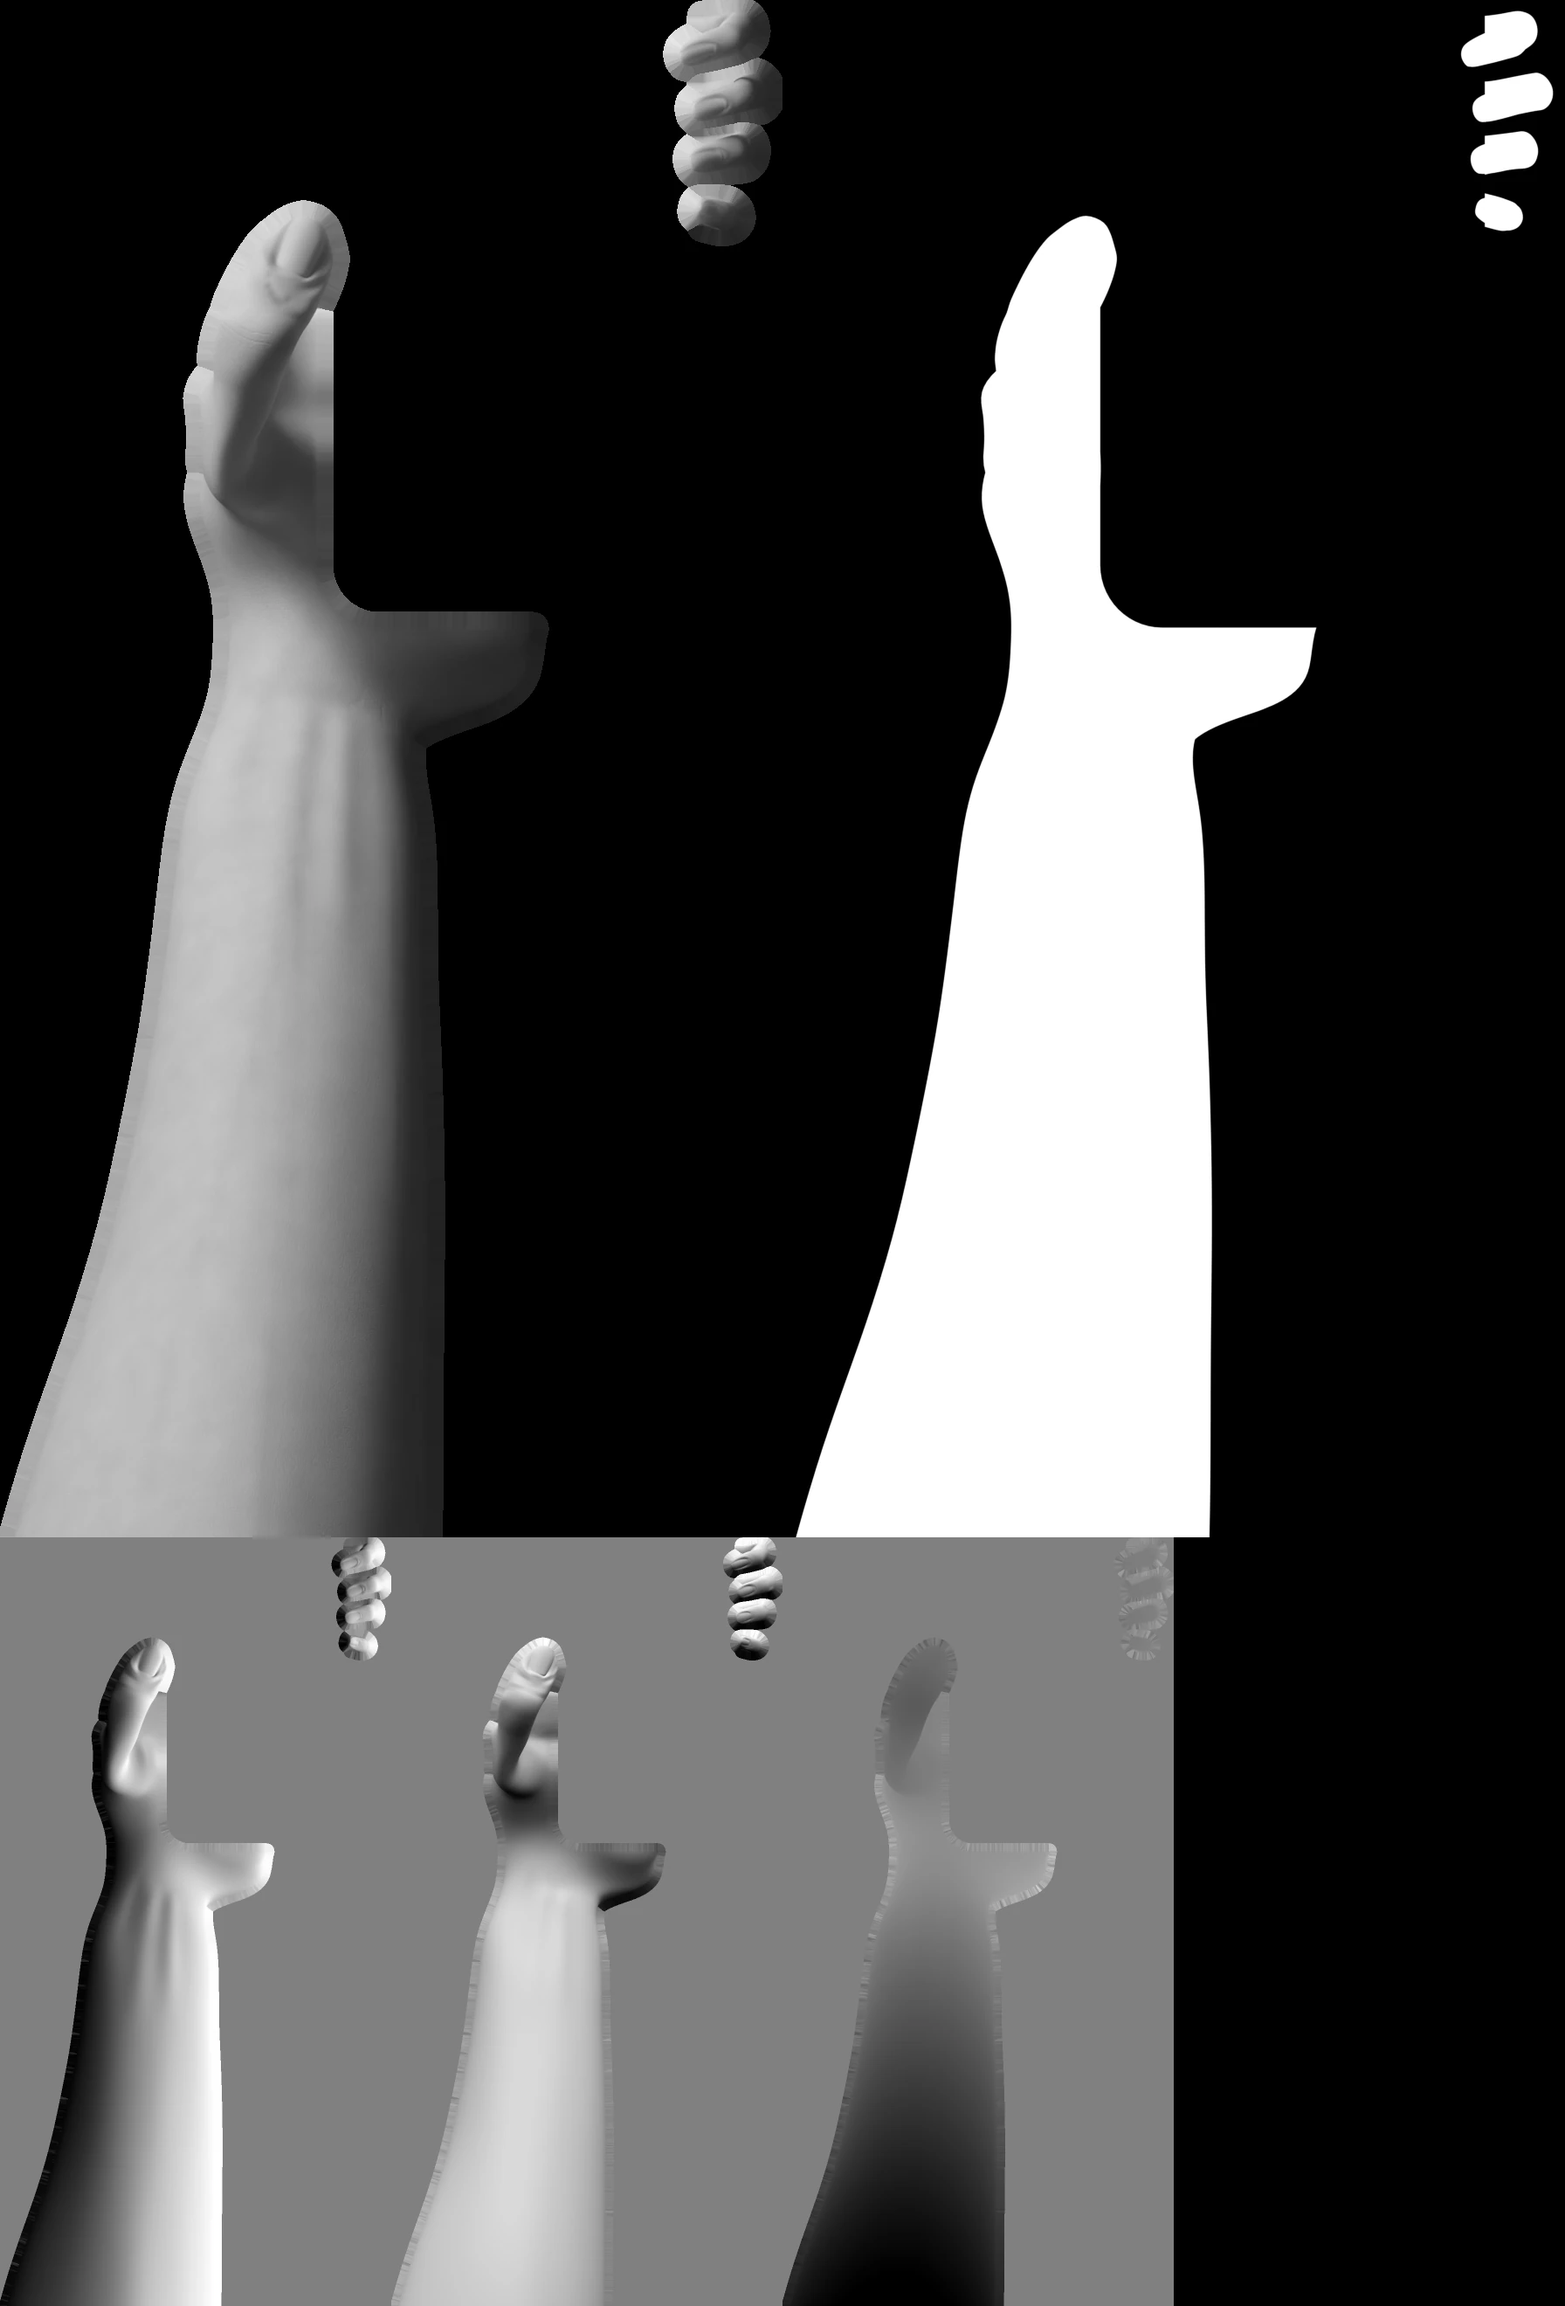
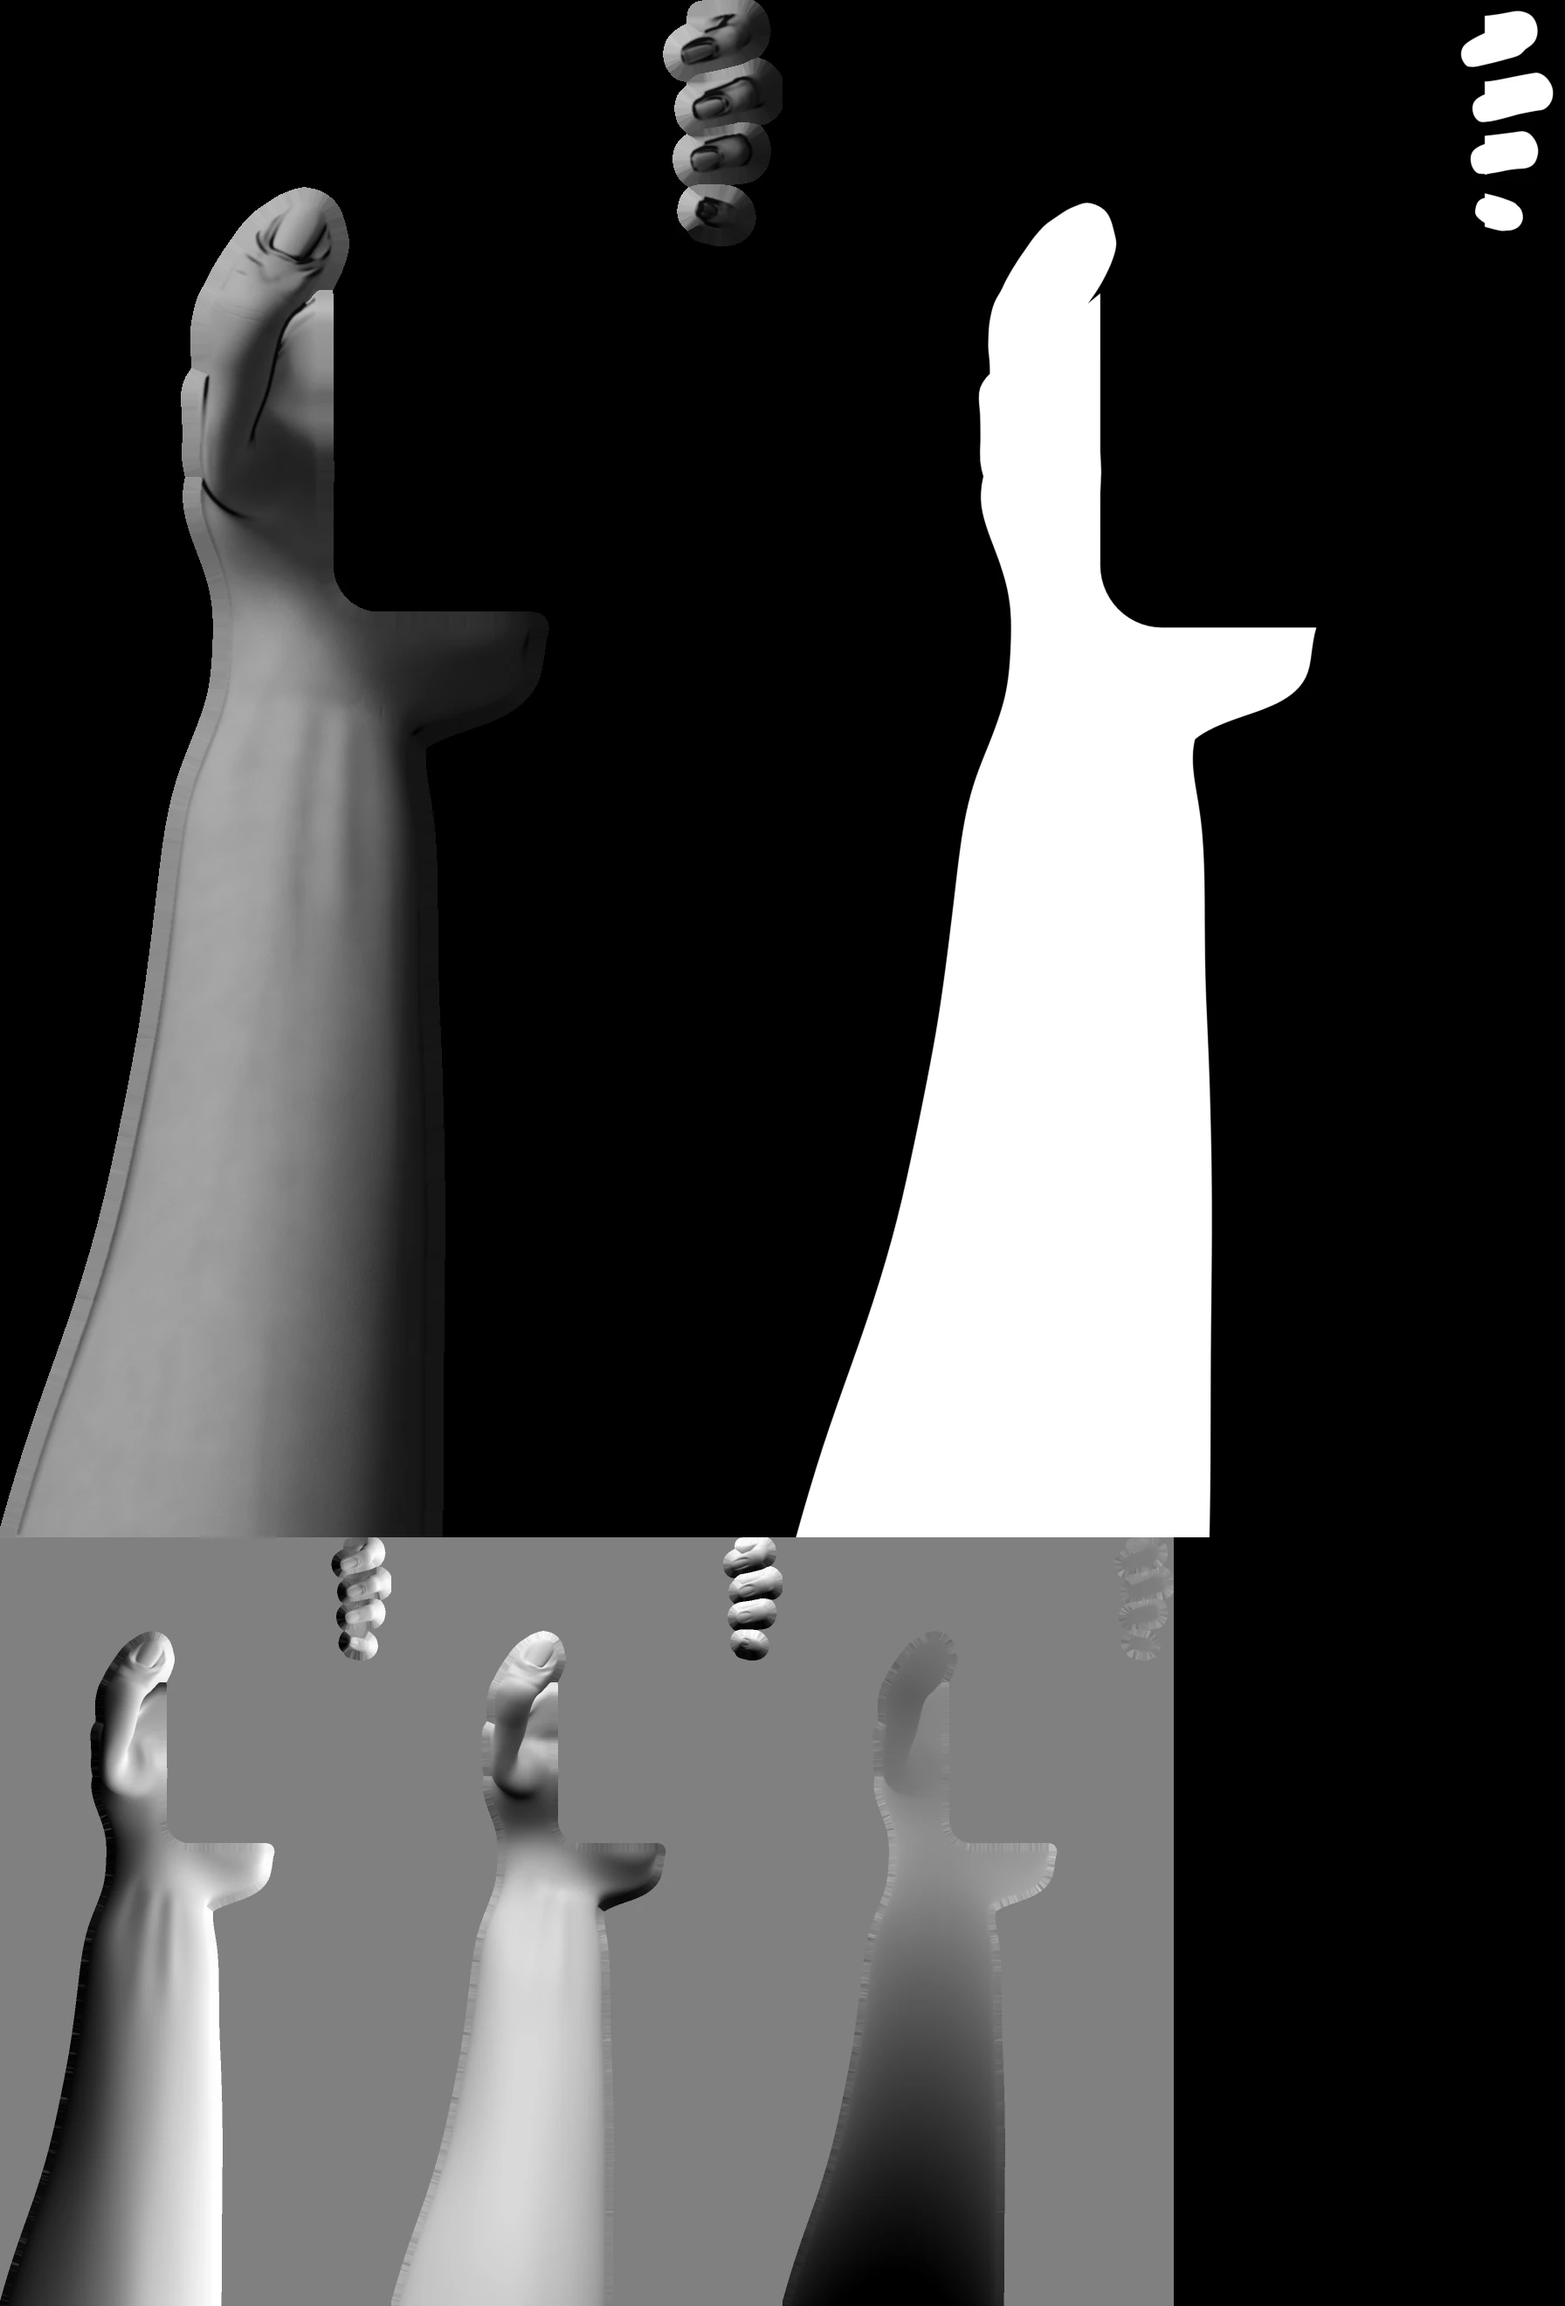
Haltehand: Daumen neu gestellt (HAND_V 5): Grundgelenk nach links, Knick am Endgelenk in der Bildebene, rechte Daumenkontur vor dem Ballen sichtbar; beide Hand-Atlanten mit Tintenlinien an Nagelrändern, Beugefalte und Fugen, Helligkeit ohne ausgefressene Flächen

diff --git a/src/components/landing/scenes/ende/hand.js b/src/components/landing/scenes/ende/hand.js
@@ -14,7 +14,7 @@ import { qa } from '../../core/loop';
 import { istHoch } from './kamera';
 
 // Bei jedem neuen Render erhöhen: json und webp gehören zusammen und werden gemeinsam gecacht.
-const HAND_V = 4;
+const HAND_V = 5;
 const STEP = 1.25; // Zellgröße in Bühnen-px (fein: Halbton liest als Haut, nicht als Raster)
 const GAM = 0.85;
 const CON = 1.05;

diff --git a/design/HAND.md b/design/HAND.md
@@ -4,6 +4,10 @@ Stand 2026-10-07. Die beiden Kapsel-Hände der Engine (Handy-Hand `holdBack`/`ho
 
 Referenz-Umsetzung (läuft, Screenshots bei 1440 × 900 und 390 × 844 geprüft): `/Users/abu/Company/archiv/hand/scripts/preview.html` (Aufruf: Ordner `archiv/hand` mit `python3 -m http.server`, dann `/scripts/preview.html` mit `?b=../final/`; Parameter `ps`, `g`, `con`, `rim`, `view`, `ascii=1`, `mx/my/px/py`), eingeklebt im Abschnitt 6.
 
+### Stand 2026-10-08, dritte Runde (HAND_V 5): Daumen
+
+Gate-3-Funde 2, 7, 10: der Daumen las sich als Säule (gerade Kanten, kein Knick, kein Nagel, harte Kante zum Ballen). Ursache: Grund- und Endglied lagen in der Projektion beide bei 68° (die Beugung ging in die Tiefe, Endgelenk 31 mm vor dem Glas), und die Daumenachse saß bei x ≈ 612, so dass der Handy-Rand die rechte Daumenkontur gerade abschnitt. Neu gelöst mit `scripts/opt_thumb7.py` (`q8/main2_ziel.json` → `q8/main2.json`): Daumen-Grundgelenk nach links auf x 565 / y 594, Grundglied 76° in der Bildebene, Endglied 60° (Knick 16° sichtbar), Endgelenk 25 mm vor dem Glas, Kuppe 15 px über dem Rand. Knochen (FK, Grad): `finger1-1` −32,4 / −57,4 / −2,7 (vorher −59,7 / −2,8), `finger1-2` 48,4 / 0 / −34,7 (vorher 40,9 / −44,3), `finger1-3` 56,4 (vorher 61,8). Die rechte Daumenkontur ist jetzt von der Kuppe bis zum Grundgelenk sichtbar, dahinter der dunklere Ballen. Beide Atlanten mit Tintenlinien gepackt (`pack8 --ink 0.9`: Tiefensprung und Normalenknick, bisher 0): Nagelränder an Daumen und Kuppen, Beugefalte, Daumenkontur vor dem Ballen. Helligkeit `--gain 0.72 --lgamma 1.15` (vorher 0,8 / 1,0): keine ausgefressenen weißen Flächen mehr auf dem Daumenrücken und keine weißen Glanzpunkte auf den Kuppen. Lauf `v3/final10.sh` → `out/R6/pk`. Messung `measure7`: Daumen Überstand 14,7 px, Spitze y 384; Kuppen unverändert. Bleibt: unterhalb des Grundgelenks ist Ballen plus Daumenbasis weiterhin eine Fläche bis zum Handy-Rand (im Halbton ohne Binnenzeichnung), und die Innenseite der Daumenkuppe auf dem Glas liest als helle Fläche.
+
 ### Stand 2026-10-08, zweite Runde (HAND_V 4)
 
 Haut matter (`skin7.make_skin3` mit `rough` 0,66 / `spec` 0,24 aus den Licht-Specs `lights/L2r.json`, `lights/LP8r.json`): der durchgehende Glanzstreifen auf dem Daumen zerfällt in Formschatten. Daumen-Endglied 15° mehr gebeugt (`q8/main1.json`, Nagel und Beugefalte im Lum-Pass sichtbar, Überstand 15 px). Fingerkuppen stärker gestaffelt (`q8/fp13.json` → `fp13_s.json`: Ziele Zeige 236, Mittel 284, Ring 338, klein 398; Kuppenhöhen 40/36/32/27; kleiner Finger schlanker 0,74). Zeigehand mit gestaffelter Krümmung (`q8/td4.json`: Mittelfinger 70/86/40, Ring 88/100/50, klein 100/100/58), Daumen liegt auf dem Mittelfinger. Lauf `v3/final9.sh` → `out/R5/pk`. Messung `measure7`: Kuppen y 236–275, 282–319, 327–359, 376–402 (Höhen 39/37/32/26).
@@ -16,9 +20,9 @@ Kuppen gestaffelt statt in einer senkrechten Reihe: Finger-Hand neu gelöst und 
 
 | Datei | Inhalt | Größe |
 |---|---|---|
-| `public/hand/hold.webp` + `hold.json` | Hand, die das Handy hält (Atlas 2072 × 2754, Maßstab 1,5, Kachel ab Bühnen-x 424, y 176) | 88 kB |
-| `public/hand/point.webp` + `point.json` | Zeigehand als Sprite (Atlas 3328 × 894, Maßstab 1,0) | 66 kB |
-| Summe | | 154 kB (Grenze 600 kB) |
+| `public/hand/hold.webp` + `hold.json` | Hand, die das Handy hält (Atlas 1792 × 2640, Maßstab 1,5, Kachel ab Bühnen-x 411, y 227) | 56 kB |
+| `public/hand/point.webp` + `point.json` | Zeigehand als Sprite (Atlas 3800 × 648, Maßstab 1,0) | 49 kB |
+| Summe | | 105 kB (Grenze 600 kB) |
 
 Die JSON-Dateien beschreiben sich selbst (`tiles`, `origin`, `scale`, `encoding`, `space`; `hold.json` zusätzlich `phone`, `screen`, `bottomY`).
 
